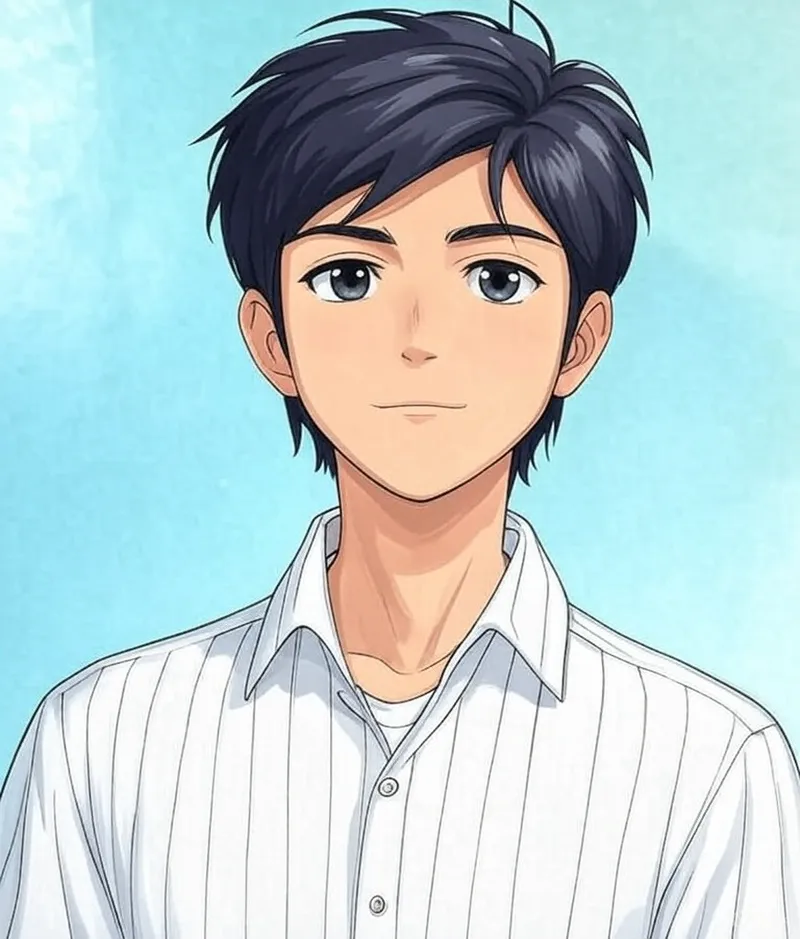
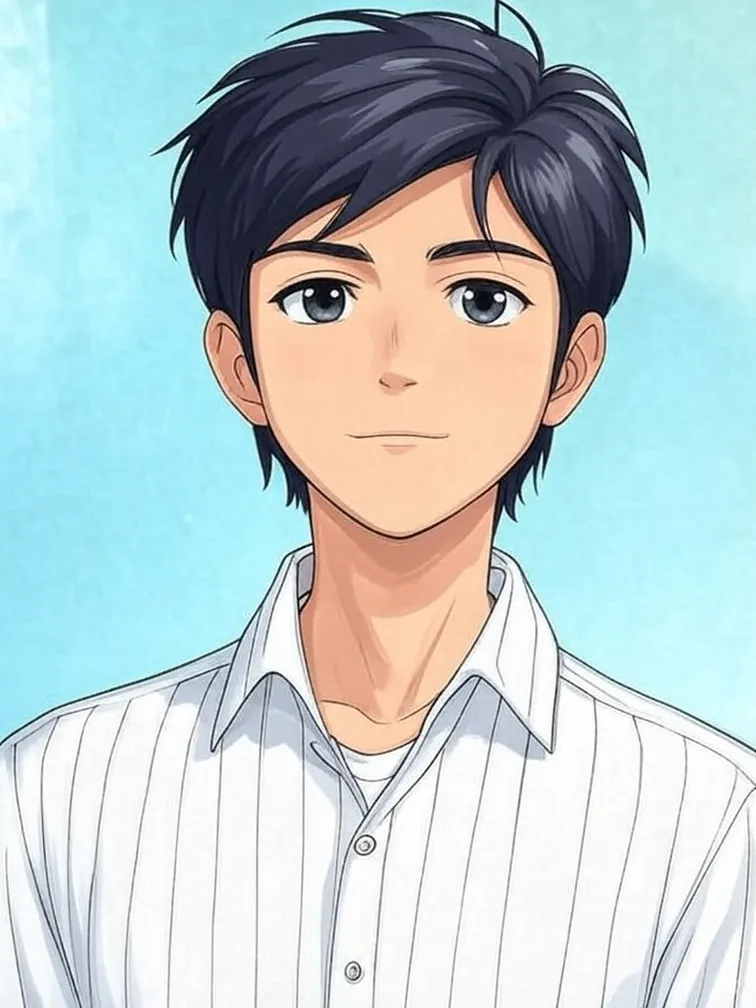
perf: resize hero image to 756x1008 and serve via picture tag for modern image delivery

Changed region(s): [[0.0, 0.0, 1.0, 1.0], [0.0, 0.0, 0.1217, 0.2471]]

diff --git a/src/sections/Hero.tsx b/src/sections/Hero.tsx
@@ -155,16 +155,19 @@ const Hero = ({ onTabChange, uiType }: HeroProps) => {
 
           {/* Avatar Container */}
           <div className="relative w-[300px] md:w-[340px] lg:w-[380px] aspect-[3/4] rounded-3xl overflow-hidden border border-white/10 shadow-2xl bg-zinc-950">
-            <img
-              src={personalInfo.avatarUrl}
-              alt={personalInfo.name}
-              width="380"
-              height="506"
-              fetchPriority="high"
-              loading="eager"
-              decoding="async"
-              className="w-full h-full object-cover object-[50%_38%]"
-            />
+            <picture>
+              <source srcSet={personalInfo.avatarUrl} type="image/webp" />
+              <img
+                src={personalInfo.avatarUrl.replace(/\.webp$/, '.jpeg')}
+                alt={personalInfo.name}
+                width="380"
+                height="506"
+                fetchPriority="high"
+                loading="eager"
+                decoding="async"
+                className="w-full h-full object-cover object-[50%_38%]"
+              />
+            </picture>
           </div>
         </div>
       </div>
